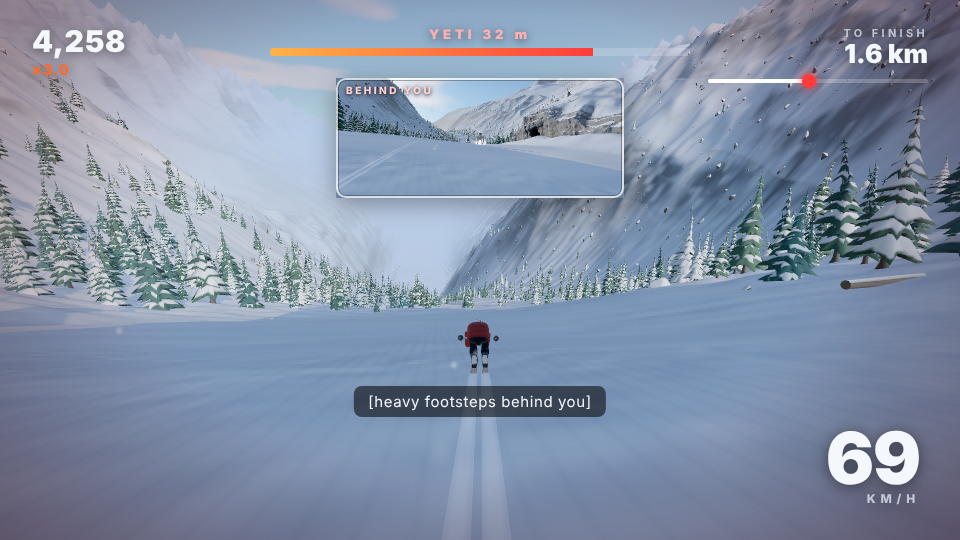
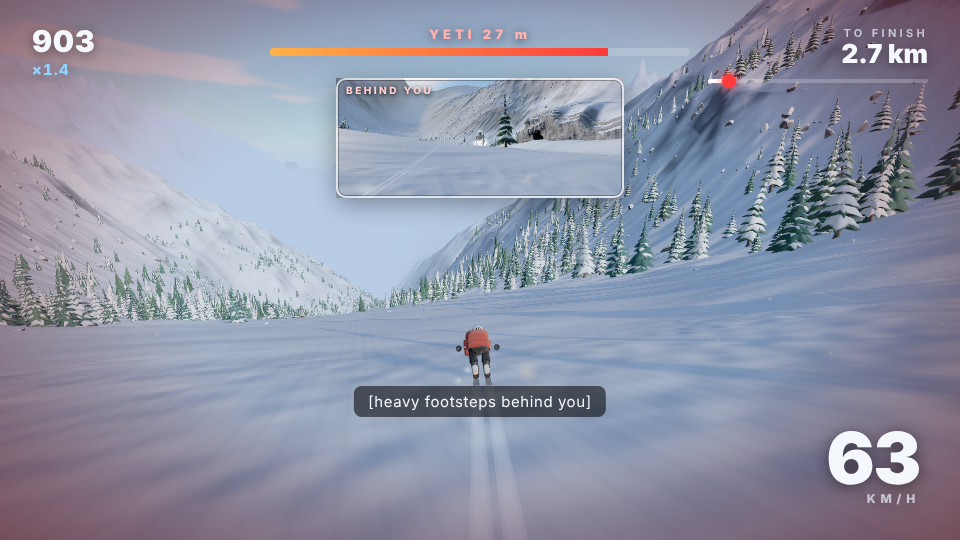
Spawn the Yeti cave inside the first 10 % of every course
The cave (and its trigger line) now always sits in the first 10 % of a
finite course: Sprint 260 m, Standard 960 m, Endurance 1.96 km,
Expedition 4.96 km. Endless's first cave moves to 960 m as well.

- firstCaveZ() in profile.ts is the single rule; Classic Sprint's
  hand-tuned slope was re-keyed to put the cave shelf at 260 m.
- Sprint/Standard chase that encounter to the finish; long courses end
  the early chase at a refuge, then skirmishes and the final chase.
- Tutorial, tutorial kicker and foreshadowing shrink to fit before an
  early cave.
- Unit tests lock the rule per length; headless runs (3/10/20 km,
  3 seeds, 3 styles) keep skilled/intermediate wins and careless losses.
  Game e2e 3/3 green; e2e screenshots refreshed.

Claude-Session: https://claude.ai/code/session_01VcnZmRBSGHHzXyxcV1oKh9

diff --git a/src/world/profile.ts b/src/world/profile.ts
@@ -272,8 +272,8 @@ function between<T extends { z: number }>(arr: readonly T[], z0: number, z1: num
 // Classic: the original 3 km mountain
 // =============================================================================================
 const CLASSIC_SLOPE: ReadonlyArray<readonly [number, number]> = [
-  [-400, 2], [-60, 3], [0, 6], [60, 10], [240, 11], [300, 18], [640, 17], [700, 22], [980, 21], [1060, 14], [1250, 13], [1300, 8],
-  [1365, 9], [1405, 18], [1470, 19], [1900, 20], [1990, 26], [2280, 25], [2330, 17], [2680, 16], [2740, 14], [2930, 12], [2990, 6],
+  [-400, 2], [-60, 3], [0, 6], [60, 10], [160, 12], [210, 8], [275, 9], [315, 18], [380, 19], [640, 17], [700, 22], [980, 21], [1060, 14],
+  [1250, 13], [1300, 15], [1365, 17], [1405, 18], [1470, 19], [1900, 20], [1990, 26], [2280, 25], [2330, 17], [2680, 16], [2740, 14], [2930, 12], [2990, 6],
   [3060, 1.2], [3400, 0.6], [6000, 0.4],
 ];
 const CLASSIC_WIDTH: ReadonlyArray<readonly [number, number]> = [
@@ -281,7 +281,23 @@ const CLASSIC_WIDTH: ReadonlyArray<readonly [number, number]> = [
   [2700, 52], [2950, 70], [3100, 110], [6000, 140],
 ];
 
-export const CLASSIC = { finishZ: 3000, caveZ: 1350, tutorialEndZ: 330 } as const;
+/**
+ * Yeti cave placement rule: the (first) cave always sits inside the first 10 % of a finite course,
+ * with its trigger line before the 10 % mark too (Sprint 3 km: by 300 m; Standard 10 km: by 1 km).
+ */
+export const CAVE_FRACTION = 0.1;
+export function firstCaveZ(length: number): number {
+  return Math.round(length * CAVE_FRACTION) - 40;
+}
+/** Early caves leave less run-in: the tutorial, and the foreshadowing, shrink to fit before them. */
+export function tutorialEndFor(caveZ: number): number {
+  return caveZ < 600 ? caveZ - 110 : 330;
+}
+export function foreshadowFor(caveZ: number): number {
+  return caveZ < 600 ? caveZ - 80 : caveZ - 530;
+}
+
+export const CLASSIC = { finishZ: 3000, caveZ: firstCaveZ(3000), tutorialEndZ: tutorialEndFor(firstCaveZ(3000)) } as const;
 
 export class ClassicProfile implements CourseProfile {
   readonly kind = 'classic' as const;
@@ -298,7 +314,8 @@ export class ClassicProfile implements CourseProfile {
   constructor(readonly seed: number) {
     this.slope.anchorZero(0);
     const rng = new Rng(seed ^ 0x51f15e);
-    this.kick.push({ z: 285, d: this.routeX(285) - this.centerX(285), width: 9, height: 1.1, run: 12 });
+    const tk = this.tutorialEndZ - 45; // the tutorial kicker, just before the tutorial ends
+    this.kick.push({ z: tk, d: this.routeX(tk) - this.centerX(tk), width: 9, height: 1.1, run: 12 });
     for (const [a, b, count] of [
       [420, 960, 4],
       [1080, 1240, 1],
@@ -332,7 +349,7 @@ export class ClassicProfile implements CourseProfile {
         index: 0,
         caveZ,
         triggerZ: caveZ + 22,
-        foreshadowZ: caveZ - 530,
+        foreshadowZ: foreshadowFor(caveZ),
         anchor: { z: caveZ, centerX: this.centerX(caveZ), side: 1, d: CAVE_D },
         chaseEndZ: this.finishZ,
         checkpointZ: null,
@@ -472,13 +489,13 @@ export function chaseLength(length: number): number {
 /** chase length of a mid-course skirmish on long finite courses (cave → refuge) */
 export const SKIRMISH_CHASE = 2200;
 
-export const ENDLESS = { firstCave: 5200, cycle: 9000, chase: 3400 } as const;
+export const ENDLESS = { firstCave: 960, cycle: 9000, chase: 3400 } as const;
 
 export class GeneratedProfile implements CourseProfile {
   readonly kind = 'generated' as const;
   readonly finishZ: number;
   readonly endless: boolean;
-  readonly tutorialEndZ = 330;
+  readonly tutorialEndZ: number;
   private slope = new SlopeTrack();
   private width = new KeyTrack();
   private amp = new KeyTrack(); // centreline amplitude
@@ -515,29 +532,39 @@ export class GeneratedProfile implements CourseProfile {
     const r = new Rng(seed ^ 0x7c0ffee);
     this.rngPlan = new Rng(seed ^ 0x51ed);
     this.phase = [r.range(0, 6.28), r.range(0, 6.28), r.range(0, 6.28), r.range(0, 6.28)];
-    // the summit: identical shape for every course (start gate, tutorial run-in)
+    const first = this.endless ? ENDLESS.firstCave : firstCaveZ(length);
+    this.tutorialEndZ = tutorialEndFor(first);
+    // the summit: identical start for every course (start gate, tutorial run-in). With an early
+    // cave (Sprint) the summit hands straight over to the cave shelf.
+    const summitEnd = Math.min(330, first - 320);
     this.keys(-400, { slope: 2, width: 70, amp: 0, route: 0, tree: 0, forest: 0.3, rock: 1, setback: 1, steep: 0.8 });
     this.keys(-60, { slope: 3, width: 66, amp: 0, route: 0 });
     this.keys(0, { slope: 6, width: 62, amp: 0, route: 0 });
-    this.keys(60, { slope: 10, width: 60, amp: 10, route: 0 });
-    this.keys(240, { slope: 11, width: 56, amp: 30, route: 0.5, tree: 0.4 });
-    this.segs.push({ i: 0, type: 'summit', z0: -400, z1: 330 });
-    this.kick.push({ z: 285, d: 0, width: 9, height: 1.1, run: 12 });
-    this.zDone = 330;
-    // the finish
+    if (summitEnd >= 240) {
+      this.keys(60, { slope: 10, width: 60, amp: 10, route: 0 });
+      this.keys(240, { slope: 11, width: 56, amp: 30, route: 0.5, tree: 0.4 });
+    }
+    this.zDone = Math.max(0, summitEnd);
+    this.segs.push({ i: 0, type: 'summit', z0: -400, z1: this.zDone });
+    this.kick.push({ z: this.tutorialEndZ - 45, d: 0, width: 9, height: 1.1, run: 12 });
     if (!this.endless) {
       const L = length;
-      const caveZ = Math.max(1350, L - chaseLength(L));
-      // long courses: earlier skirmishes from other caves, each ending at a refuge where the Yeti
-      // loses the trail; the main confrontation stays at the end (B4)
-      const skirm = L >= 45000 ? [0.24, 0.5, 0.72] : L >= 18000 ? [0.4] : [];
-      skirm.forEach((f, i) => {
-        const c = Math.round((L * f) / 10) * 10;
-        const cp = c + SKIRMISH_CHASE;
-        this.addEncounter(i, c, cp, cp, 0.94 + 0.02 * i);
-        this.cps.push(cp);
-      });
-      this.addEncounter(skirm.length, caveZ, L, null, 1);
+      // the Yeti's cave is always in the first 10 % of the course. Sprint and Standard: one
+      // encounter, chased from there to the finish. Long courses: the early cave's chase ends at
+      // a refuge; later skirmishes follow, and the main confrontation stays at the end (B4).
+      if (L < 18000) {
+        this.addEncounter(0, first, L, null, 1);
+      } else {
+        const skirm = L >= 45000 ? [0.5, 0.72] : [0.45];
+        const cps = [first, ...skirm.map((f) => Math.round((L * f) / 10) * 10)];
+        cps.forEach((c, i) => {
+          const cp = c + SKIRMISH_CHASE;
+          this.addEncounter(i, c, cp, cp, 0.94 + 0.02 * i);
+          this.cps.push(cp);
+        });
+        this.addEncounter(cps.length, Math.max(1350, L - chaseLength(L)), L, null, 1);
+      }
+      const caveZ = this.enc.at(-1)!.caveZ;
       // sightings: the Yeti shows itself on a ridge between the encounters
       const busy = (z: number) => this.enc.some((e) => z > e.foreshadowZ - 900 && z < e.chaseEndZ + 600);
       for (let z = 2600; z < caveZ - 1500; z += this.rngPlan.range(3600, 5200)) if (!busy(z)) this.sight.push({ z, side: this.rngPlan.chance(0.5) ? 1 : -1 });
@@ -553,7 +580,7 @@ export class GeneratedProfile implements CourseProfile {
       index,
       caveZ,
       triggerZ: caveZ + 22,
-      foreshadowZ: caveZ - 530,
+      foreshadowZ: foreshadowFor(caveZ),
       anchor: { z: caveZ, centerX: 0, side: 1, d: CAVE_D }, // centerX resolved once the keys exist
       chaseEndZ: chaseEnd,
       checkpointZ,
@@ -697,8 +724,11 @@ export class GeneratedProfile implements CourseProfile {
   private buildSpecial(kind: 'encounter' | 'checkpoint' | 'finish', ref: number, z0: number, z1: number, rng: Rng, idx: number) {
     if (kind === 'encounter') {
       const c = ref;
-      const common = { width: 50, amp: 55, route: 0.8, forest: 0.9, tree: 1, rock: 1.2, setback: 1, steep: 1 };
-      this.keys(c - 300, { slope: 13, ...common });
+      // an early cave (Sprint) starts inside the summit run-in: keep the start straighter and
+      // skip shelf keys that would land before the segment start
+      const common = { width: 50, amp: Math.min(55, Math.max(20, (c - 50) * 0.15)), route: 0.8, forest: 0.9, tree: 1, rock: 1.2, setback: 1, steep: 1 };
+      if (c - 300 > z0 + 5) this.keys(c - 300, { slope: 13, ...common });
+      else this.keys(c - 120, { slope: 11, ...common });
       this.keys(c - 50, { slope: 8, ...common });
       this.keys(c + 15, { slope: 9, ...common });
       this.keys(c + 55, { slope: 18, ...common });

diff --git a/tests/unit/course.test.ts b/tests/unit/course.test.ts
@@ -1,6 +1,6 @@
 import { describe, expect, it } from 'vitest';
 import { Mountain } from '../../src/world/course';
-import { ENDLESS, chaseLength } from '../../src/world/profile';
+import { ENDLESS, chaseLength, firstCaveZ } from '../../src/world/profile';
 import { ObstacleField, laneClearance } from '../../src/physics/obstacles';
 import { simulateGenerated } from '../../src/game/simulate';
 import { autopilotInput } from '../../src/debug/autopilot';
@@ -86,8 +86,8 @@ describe('course config & daily mountain', () => {
     expect(json.id).toBe(spec.id);
     expect(json.finishZ).toBe(20000);
     expect(json.segments.length).toBeGreaterThan(10);
-    expect(json.encounters.length).toBe(2);
-    expect(json.refuges.length).toBe(1);
+    expect(json.encounters.length).toBe(3);
+    expect(json.refuges.length).toBe(2);
     expect(json.route.length).toBeGreaterThan(150);
     expect(JSON.stringify(courseSpec(makeCourse('custom', 'endurance', { customText: 'YETI' })))).toBe(JSON.stringify(spec));
   });
@@ -150,29 +150,46 @@ describe('course config & daily mountain', () => {
 });
 
 describe('configurable course lengths', () => {
+  it('Classic Sprint: the Yeti cave and its trigger are inside the first 300 m', () => {
+    const m = buildMountain(makeCourse('classic', 'sprint'));
+    const [e] = m.profile.encounters(-Infinity, Infinity);
+    expect(e!.caveZ).toBe(firstCaveZ(3000));
+    expect(e!.triggerZ).toBeLessThanOrEqual(300);
+    expect(e!.chaseEndZ).toBe(3000);
+    expect(m.profile.tutorialEndZ).toBeLessThan(e!.foreshadowZ);
+    expect(e!.foreshadowZ).toBeLessThan(e!.triggerZ);
+  });
+
+  it('Endless: the first cave comes as early as on Standard', () => {
+    expect(Mountain.generated(5, Infinity).profile.encounters(0, 5000)[0]!.caveZ).toBe(firstCaveZ(10000));
+  });
+
   it('Classic Sprint is the original hand-tuned course; other lengths are generated', () => {
     expect(buildMountain(makeCourse('classic', 'sprint')).profile.kind).toBe('classic');
     expect(buildMountain(makeCourse('classic', 'standard')).profile.kind).toBe('generated');
   });
 
   for (const l of ['sprint', 'standard', 'endurance', 'expedition'] as const) {
-    it(`${l}: finish at ${LENGTH_INFO[l].metres} m, a valid descending route with a clear lane, the cave late`, () => {
+    it(`${l}: finish at ${LENGTH_INFO[l].metres} m, a valid descending route with a clear lane, the cave in the first 10 %`, () => {
       const L = LENGTH_INFO[l].metres;
       const m = Mountain.generated(4242, L);
       expect(m.finishZ).toBe(L);
       const enc = m.profile.encounters(-Infinity, Infinity);
       const main = enc.at(-1)!;
-      // long courses add earlier skirmishes that end at refuges; the main one ends at the finish
-      expect(enc.length).toBe(L >= 45000 ? 4 : L >= 18000 ? 2 : 1);
-      expect(main.caveZ).toBe(Math.max(1350, L - chaseLength(L)));
+      // the Yeti's cave (and its trigger line) is always inside the first 10 % of the course
+      expect(enc[0]!.caveZ).toBe(firstCaveZ(L));
+      expect(enc[0]!.triggerZ).toBeLessThanOrEqual(L * 0.1);
+      expect(enc[0]!.caveZ).toBeGreaterThan(m.profile.tutorialEndZ);
+      // Sprint/Standard: that one encounter is chased to the finish. Long courses: the early
+      // chase ends at a refuge, later skirmishes follow, the main confrontation is at the end.
+      expect(enc.length).toBe(L >= 45000 ? 4 : L >= 18000 ? 3 : 1);
       expect(main.chaseEndZ).toBe(L);
       expect(main.checkpointZ).toBeNull();
+      if (L >= 18000) expect(main.caveZ).toBe(Math.max(1350, L - chaseLength(L)));
       for (const e of enc.slice(0, -1)) {
         expect(e.checkpointZ).toBe(e.chaseEndZ);
         expect(e.chaseEndZ).toBeLessThan(main.foreshadowZ);
       }
-      // main confrontation in the final part of the course
-      if (L >= 10000) expect(main.caveZ / L).toBeGreaterThan(0.6);
       // the route descends everywhere (small bumps allowed)
       let prev = m.heightAt(m.routeX(0), 0);
       let worst = 0;
@@ -231,7 +248,8 @@ describe('alternate lines', () => {
         const zm = (a.z0 + a.z1) / 2;
         const xm = m.profile.altRouteX(zm)!;
         expect(m.surfaceAt(xm, zm)).toBe('ice');
-        expect(m.heightAt(xm, zm)).toBeLessThan(m.heightAt(xm + 9, zm) + 0.2);
+        // sunken relative to the snow either side (robust to a piste that tilts across)
+        expect(m.heightAt(xm, zm)).toBeLessThan((m.heightAt(xm + 9, zm) + m.heightAt(xm - 9, zm)) / 2 + 0.2);
         // no solid obstacle in the alternate lane
         f.ensure(a.z0, a.z1);
         for (const o of f.inRange(a.z0, a.z1)) {
@@ -294,7 +312,7 @@ describe('endless', () => {
     });
     expect(enc.at(-1)!.speedMul).toBeLessThanOrEqual(1.3);
     expect(enc.at(-1)!.speedMul).toBeGreaterThan(1.25);
-    expect(m.profile.checkpoints(0, 200_000).length).toBe(enc.length);
+    expect(m.profile.checkpoints(0, 200_000).length).toBe(enc.filter((e) => e.chaseEndZ <= 200_000).length);
     // terrain stays finite and descending far down the mountain
     const h1 = m.heightAt(m.routeX(150_000), 150_000);
     const h2 = m.heightAt(m.routeX(150_500), 150_500);

diff --git a/src/world/course.ts b/src/world/course.ts
@@ -8,7 +8,7 @@
 import { clamp, fbm, gnoise, ridged, smoothstep } from '../core/rng';
 import type { SurfaceType } from '../core/types';
 import { caveTerrainHeight, CAVE_INFLUENCE_Z, type CaveAnchor } from './caveTerrain';
-import { CLASSIC, ClassicProfile, GeneratedProfile, type CliffBand, type CourseProfile, type Kicker } from './profile';
+import { CLASSIC, foreshadowFor, ClassicProfile, GeneratedProfile, type CliffBand, type CourseProfile, type Kicker } from './profile';
 
 export type { Kicker, CliffBand, CourseProfile, Encounter, Sighting, SegmentType, AltRoute } from './profile';
 import type { AltRoute } from './profile';
@@ -22,7 +22,7 @@ export const COURSE = {
   finishZ: CLASSIC.finishZ,
   caveZ: CLASSIC.caveZ,
   caveTriggerZ: CLASSIC.caveZ + 22,
-  foreshadowZ: CLASSIC.caveZ - 530,
+  foreshadowZ: foreshadowFor(CLASSIC.caveZ),
   tutorialEndZ: CLASSIC.tutorialEndZ,
 } as const;
 

diff --git a/tests/unit/game.test.ts b/tests/unit/game.test.ts
@@ -203,7 +203,8 @@ describe('pursuit fairness (full headless runs)', () => {
     expect(simulateRun(style('skilled'), SEED_DEFAULT, 400, null, [20]).outcome).toBe('victory');
     const two = simulateRun(style('skilled'), SEED_DEFAULT, 400, null, [30, 60]);
     expect(two.outcome).toBe('victory');
-    expect(two.finalGap).toBeLessThan(simulateRun(style('skilled')).finalGap);
+    // the cost is real: the crashes lose time (the long chase lets the gap itself recover)
+    expect(two.time).toBeGreaterThan(simulateRun(style('skilled')).time + 4);
     expect(simulateRun(style('intermediate'), 42, 400, null, [40]).outcome).toBe('victory');
   });
 

diff --git a/src/game/GameSession.ts b/src/game/GameSession.ts
@@ -735,7 +735,7 @@ export class GameSession implements Stage {
     const step = TUTORIAL[this.tutIndex];
     if (!step) return;
     // the pop lesson is shown on approach to the tutorial kicker
-    if (step.key === 'pop' && s.pos.z < 240) return;
+    if (step.key === 'pop' && s.pos.z < this.world.mountain.profile.tutorialEndZ - 90) return;
     // drift needs speed: wait until fast enough
     if (step.key === 'drift' && s.speed < DRIFT_MIN_SPEED) {
       this.hud.setPrompt(`drift-wait:${this.hud.device}`, `Tuck to build speed — then hold ${this.hud.g('drift')} + steer to <b>DRIFT</b>`);

diff --git a/README.md b/README.md
@@ -1,7 +1,7 @@
 # SkiFree — The Last Descent
 
 A third-person 3D skiing survival game for the browser, built with **Three.js + TypeScript + Vite**.
-You ski down a mountain at speed. Partway down, a Yeti bursts out of a cliffside cave, and you have
+You ski down a mountain at speed. Early in the run, a Yeti bursts out of a cliffside cave, and you have
 to outrun it to the ski resort at the bottom.
 
 It is an original reimagining of the premise of the 1991 Windows game *SkiFree*. No assets from that
@@ -75,8 +75,11 @@ The game moves to each phase when you reach a point on the course, not after a s
 
 Courses are assembled from segment types (beginner, open alpine, forest, ridgeline, basin, chute,
 moguls, powder, high-speed, cliffside), each with its own slope, width and hazards. The whole course
-comes deterministically from its code. Long courses add earlier skirmishes from other caves; those
-end at a refuge where the Yeti loses your trail, and the main chase stays at the end. Wide segments
+comes deterministically from its code. The Yeti's cave is always inside the **first 10 %** of the
+course (Sprint: by 300 m; Standard: by 1 km), so on Sprint and Standard you are chased almost all the
+way to the resort. On Endurance and Expedition that early chase ends at a refuge where the Yeti
+loses your trail; later skirmishes follow, and the main chase stays at the end. Endless puts its
+first cave as early as Standard does. Wide segments
 sometimes have an **alternate line**: a shorter, icy, slightly sunken chute marked with
 orange and blue poles. It is faster but has less grip.
 

diff --git a/CHANGELOG.md b/CHANGELOG.md
@@ -1,5 +1,18 @@
 # Changelog
 
+## 0.2.1 — Early Yeti cave (2026-11-08)
+- **The Yeti's cave is always in the first 10 % of the course,** with its trigger line before the
+  10 % mark: Sprint (Classic and generated) at 260 m, Standard at 960 m, Endurance at 1.96 km,
+  Expedition at 4.96 km, Endless at 960 m. The rule lives in `firstCaveZ()` in
+  `src/world/profile.ts`.
+- Sprint and Standard: that encounter is chased to the finish. Endurance and Expedition: the early
+  chase ends at a refuge, then the later skirmishes and the final confrontation follow as before.
+- With the cave this close to the start, the tutorial, its kicker and the foreshadowing now fit in
+  front of it (the Sprint tutorial ends at 150 m, the kicker sits at 105 m).
+- The hand-tuned Classic Sprint slope was re-keyed: the cave shelf moved from 1.3 km to 260 m.
+- Tests: new unit tests lock the rule for every length; headless runs on 3, 10 and 20 km (3 seeds,
+  3 skier styles) still give skilled and intermediate wins and careless losses.
+
 ## 0.2.0 — Production improvement pass 2 (2026-11-07, branch `pass2`)
 
 ### User-reported defects
